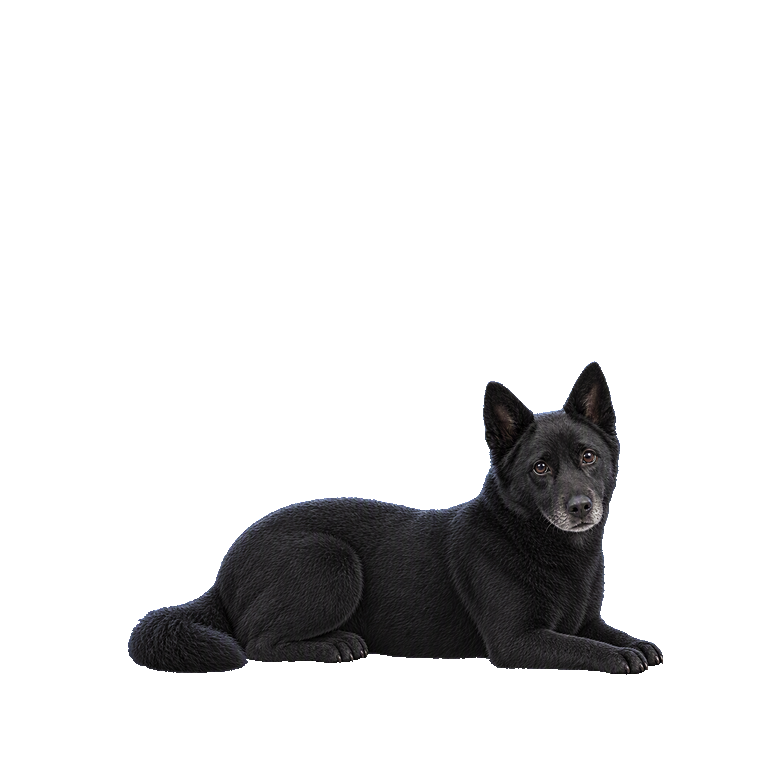
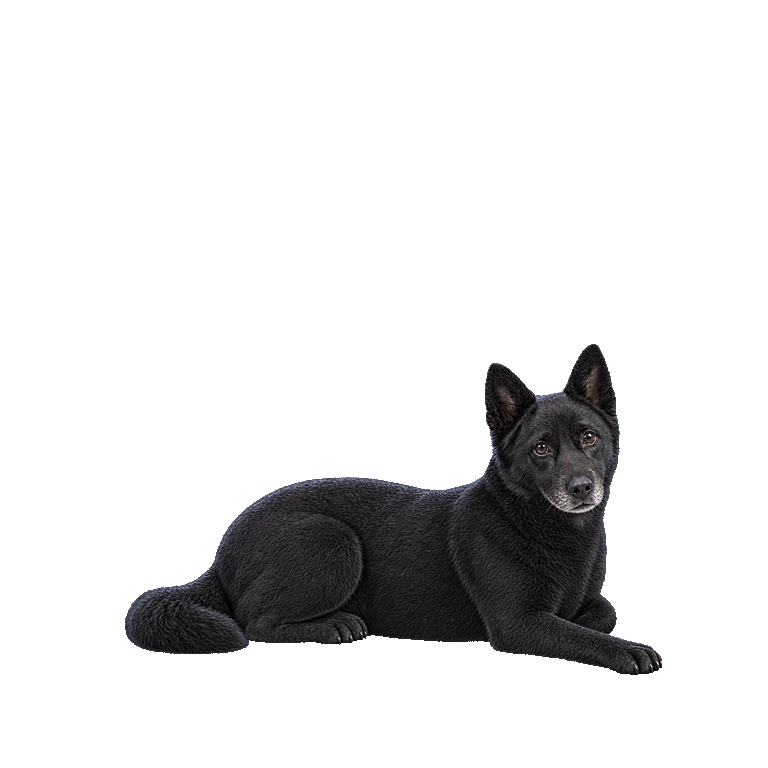
小黑桌寵 V1.0.1（1/2）
只上傳新的或改過的檔案；沒改的檔案沿用，仍屬於 V1.0.1，請不要刪除。

Changed region(s): [[0.1562, 0.4375, 0.875, 0.875]]

diff --git a/README.md b/README.md
@@ -5,7 +5,7 @@
 
 ![小黑](docs/preview.png)
 
-目前版本：**V1.0.0**（2026-10-31）　動畫示範：[docs/demo.gif](docs/demo.gif)
+目前版本：**V1.0.1**（2026-10-31：走路重做、撒嬌改成開心的樣子、側躺睡和趴下照照片重畫）　動畫示範：[docs/demo.gif](docs/demo.gif)
 
 ## 怎麼開
 
@@ -13,7 +13,7 @@
 2. 按兩下 `START_Black.cmd`。不用安裝、不需要系統管理員權限（Windows 10／11 內建的 PowerShell 5.1）。
 3. 打不開時，黑色視窗會說明原因並打開 `docs/start_help.txt`；`DIAG_Black.cmd` 是診斷模式。
 
-## V1.0.0 會做什麼
+## 會做什麼
 
 - 站著會呼吸、眨眼、搖尾巴；自己走動、坐下、趴下、打哈欠、歪頭、聞聞地上，偶爾跑一跑。
 - 點一下會開心；滑鼠停在身上會撒嬌，一直摸會翻肚子。
@@ -36,7 +36,7 @@
 |---|---|
 | `BlackPet.ps1` | 程式（PowerShell 5.1 + Windows Forms，單一檔案） |
 | `START_Black.cmd`、`DIAG_Black.cmd` | 開啟小黑／診斷模式 |
-| `pics/` | 35 張圖片（768×768，透明背景） |
+| `pics/` | 39 張圖片（768×768，透明背景） |
 | `xiaohei.ico` | 右下角圖示 |
 | `docs/` | 打不開時的說明、預覽圖、動畫示範 |
 | `使用說明.txt` | 完整使用說明（最上面是每一版的更新） |
